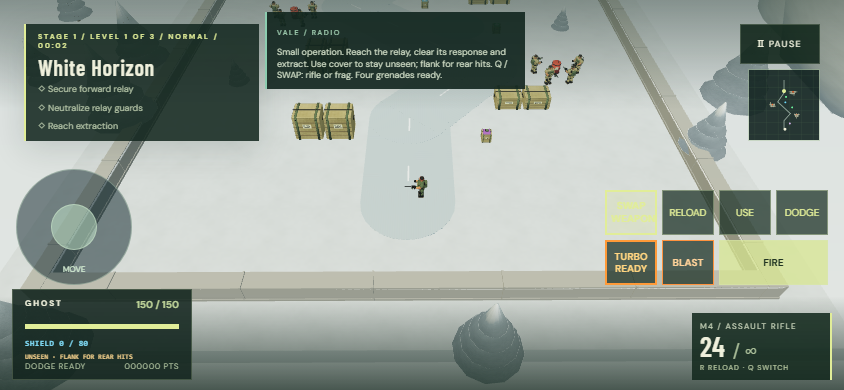
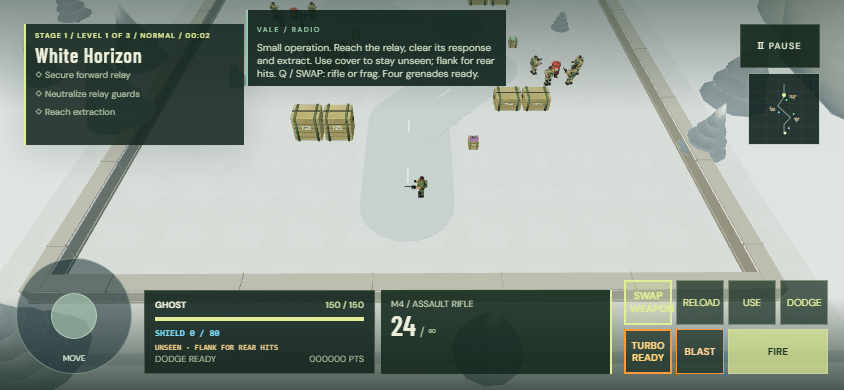
Position mobile controls at bottom corners with compact Tank-style status HUD

diff --git a/src/style.css b/src/style.css
@@ -1625,3 +1625,139 @@ input {
     transform: none;
   }
 }
+/* Tank-style mobile layout: reserve the bottom corners for the player's thumbs. */
+@media (pointer: coarse) {
+  #touch {
+    bottom: calc(20px + env(safe-area-inset-bottom));
+    left: calc(16px + env(safe-area-inset-left));
+    right: calc(16px + env(safe-area-inset-right));
+  }
+  .hud-bottom {
+    display: grid;
+    grid-template-columns: repeat(2, minmax(0, 1fr));
+    align-items: stretch;
+    gap: 8px;
+    left: calc(12px + env(safe-area-inset-left));
+    right: calc(12px + env(safe-area-inset-right));
+    bottom: calc(226px + env(safe-area-inset-bottom));
+  }
+  .controls-strip,
+  #weapon-swap,
+  .ammo-panel small {
+    display: none;
+  }
+  .health-panel,
+  .ammo-panel {
+    width: auto;
+    min-width: 0;
+    padding: 8px 10px;
+  }
+  .health-track {
+    margin: 6px 0;
+    height: 4px;
+  }
+  .hud-kicker,
+  .hud-kicker span,
+  .health-meta,
+  #shield-text {
+    font-size: 9px;
+    letter-spacing: 0;
+  }
+  #awareness {
+    font-size: 8px;
+    white-space: normal;
+  }
+  .ammo-panel > div {
+    font-size: 9px;
+    letter-spacing: 0;
+    overflow-wrap: anywhere;
+  }
+  .ammo-panel strong {
+    font-size: 28px;
+    line-height: 1.1;
+  }
+  .ammo-panel > span {
+    font-size: 12px;
+    margin-left: 4px;
+  }
+  .hud-top {
+    top: calc(10px + env(safe-area-inset-top));
+    left: calc(12px + env(safe-area-inset-left));
+    right: calc(12px + env(safe-area-inset-right));
+  }
+  .objective-panel {
+    width: 220px;
+    max-width: calc(100% - 94px);
+    padding: 7px 9px;
+  }
+  .objective-panel h2 {
+    font-size: 20px;
+    margin: 3px 0;
+  }
+  .objective-panel .eyebrow {
+    font-size: 7px;
+    letter-spacing: 1px;
+  }
+  #objectives {
+    font-size: 9px;
+    line-height: 1.3;
+  }
+  #objectives > div {
+    margin-top: 2px;
+  }
+  #minimap {
+    width: 72px;
+    height: 72px;
+  }
+  .map-caption {
+    display: none;
+  }
+  #pause {
+    min-height: 44px;
+    min-width: 44px;
+  }
+  #radio {
+    top: calc(142px + env(safe-area-inset-top));
+    padding: 6px 9px;
+  }
+  #radio p {
+    font-size: 10px;
+    line-height: 1.3;
+    margin-top: 4px;
+  }
+}
+@media (pointer: coarse) and (orientation: landscape) {
+  #touch {
+    bottom: calc(16px + env(safe-area-inset-bottom));
+  }
+  #touch .touch-actions {
+    grid-template-columns: repeat(4, 48px);
+    gap: 4px;
+  }
+  #touch .touch-actions .fire {
+    grid-column: span 2;
+  }
+  .hud-bottom {
+    left: calc(144px + env(safe-area-inset-left));
+    right: calc(232px + env(safe-area-inset-right));
+    bottom: calc(16px + env(safe-area-inset-bottom));
+    gap: 6px;
+  }
+  #radio {
+    top: calc(10px + env(safe-area-inset-top));
+    left: calc(246px + env(safe-area-inset-left));
+    right: calc(100px + env(safe-area-inset-right));
+    width: auto;
+    max-width: 260px;
+  }
+}
+@media (pointer: coarse) and (orientation: landscape) and (max-width: 700px) {
+  .hud-bottom {
+    grid-template-columns: minmax(0, 1fr);
+    gap: 4px;
+  }
+  .health-panel,
+  .ammo-panel {
+    padding: 5px 7px;
+  }
+}

diff --git a/tests/mobile-layout.spec.ts b/tests/mobile-layout.spec.ts
@@ -1,0 +1,67 @@
+import { test, expect } from "@playwright/test";
+test("mobile status leaves bottom thumb controls clear across phone sizes", async ({
+  browser,
+}) => {
+  const context = await browser.newContext({
+    hasTouch: true,
+    isMobile: true,
+    viewport: { width: 390, height: 844 },
+  });
+  const page = await context.newPage();
+  await page.goto("http://127.0.0.1:5177");
+  await expect(page.locator("#deploy")).toBeEnabled();
+  await page.locator("#deploy").tap();
+  for (const [width, height] of [
+    [390, 844],
+    [320, 568],
+    [844, 390],
+    [568, 320],
+    [1024, 768],
+  ]) {
+    await page.setViewportSize({ width, height });
+    const layout = await page.evaluate(() => {
+      const pad = document.querySelector("#move-pad")!.getBoundingClientRect();
+      const controls = [
+        ...document.querySelectorAll("#move-pad,#touch button"),
+      ];
+      const panels = [
+        ...document.querySelectorAll(
+          ".health-panel,.ammo-panel,.objective-panel,#minimap,#radio",
+        ),
+      ].map((e) => e.getBoundingClientRect());
+      return {
+        bottom: innerHeight - pad.bottom,
+        clear: controls.every((e) => {
+          const r = e.getBoundingClientRect(),
+            hit = document.elementFromPoint(
+              r.x + r.width / 2,
+              r.y + r.height / 2,
+            );
+          return (
+            r.width >= 44 &&
+            r.height >= 44 &&
+            r.x >= 0 &&
+            r.y >= 0 &&
+            r.right <= innerWidth &&
+            r.bottom <= innerHeight &&
+            (hit === e || e.contains(hit)) &&
+            panels.every(
+              (p) =>
+                r.right <= p.left ||
+                r.left >= p.right ||
+                r.bottom <= p.top ||
+                r.top >= p.bottom,
+            )
+          );
+        }),
+        overflow: document.documentElement.scrollWidth > innerWidth,
+      };
+    });
+    expect(layout, `${width}x${height}`).toEqual({
+      bottom: width > height ? 16 : 20,
+      clear: true,
+      overflow: false,
+    });
+  }
+  await context.close();
+});

diff --git a/docs/MOBILE_JOYSTICK.md b/docs/MOBILE_JOYSTICK.md
@@ -5,3 +5,9 @@ Replaced the four direction buttons with the circular movement pad used by Tank_
 The initiating finger owns the pad until release, cancellation or lost capture. Firing, BLAST and action buttons use separate pointers. Pause, backgrounding and viewport changes reset input to prevent stuck movement. Keyboard controls remain available.
 
 Validation: production TypeScript/Vite build; 40 unit checks; browser checks for analog strength, diagonal clamping, pointer ownership, cancellation, rotation and simultaneous movement/fire. Portrait and landscape captures are in joystick-portrait.png and joystick-landscape.png. CI runs the complete browser suite before publishing GitHub Pages.
+
+## Mobile status layout correction
+
+The joystick behavior alone did not match Tank's thumb placement: RAMBO's status windows still occupied the bottom corners. Touch controls now sit 20px from the bottom in portrait and 16px in landscape, plus the device safe-area inset. Portrait status panels sit above the action cluster. Landscape status panels fit between the joystick and combat buttons, stacking on narrow phones. Health, shield, awareness, ammunition and weapon names remain visible in compact panels. Desktop styling is unchanged.
+
+Validated with collision/hit-target checks at 390x844, 320x568, 844x390, 568x320 and 1024x768, plus existing multitouch and analog-control regressions. Updated portrait and landscape captures show the arrangement.
